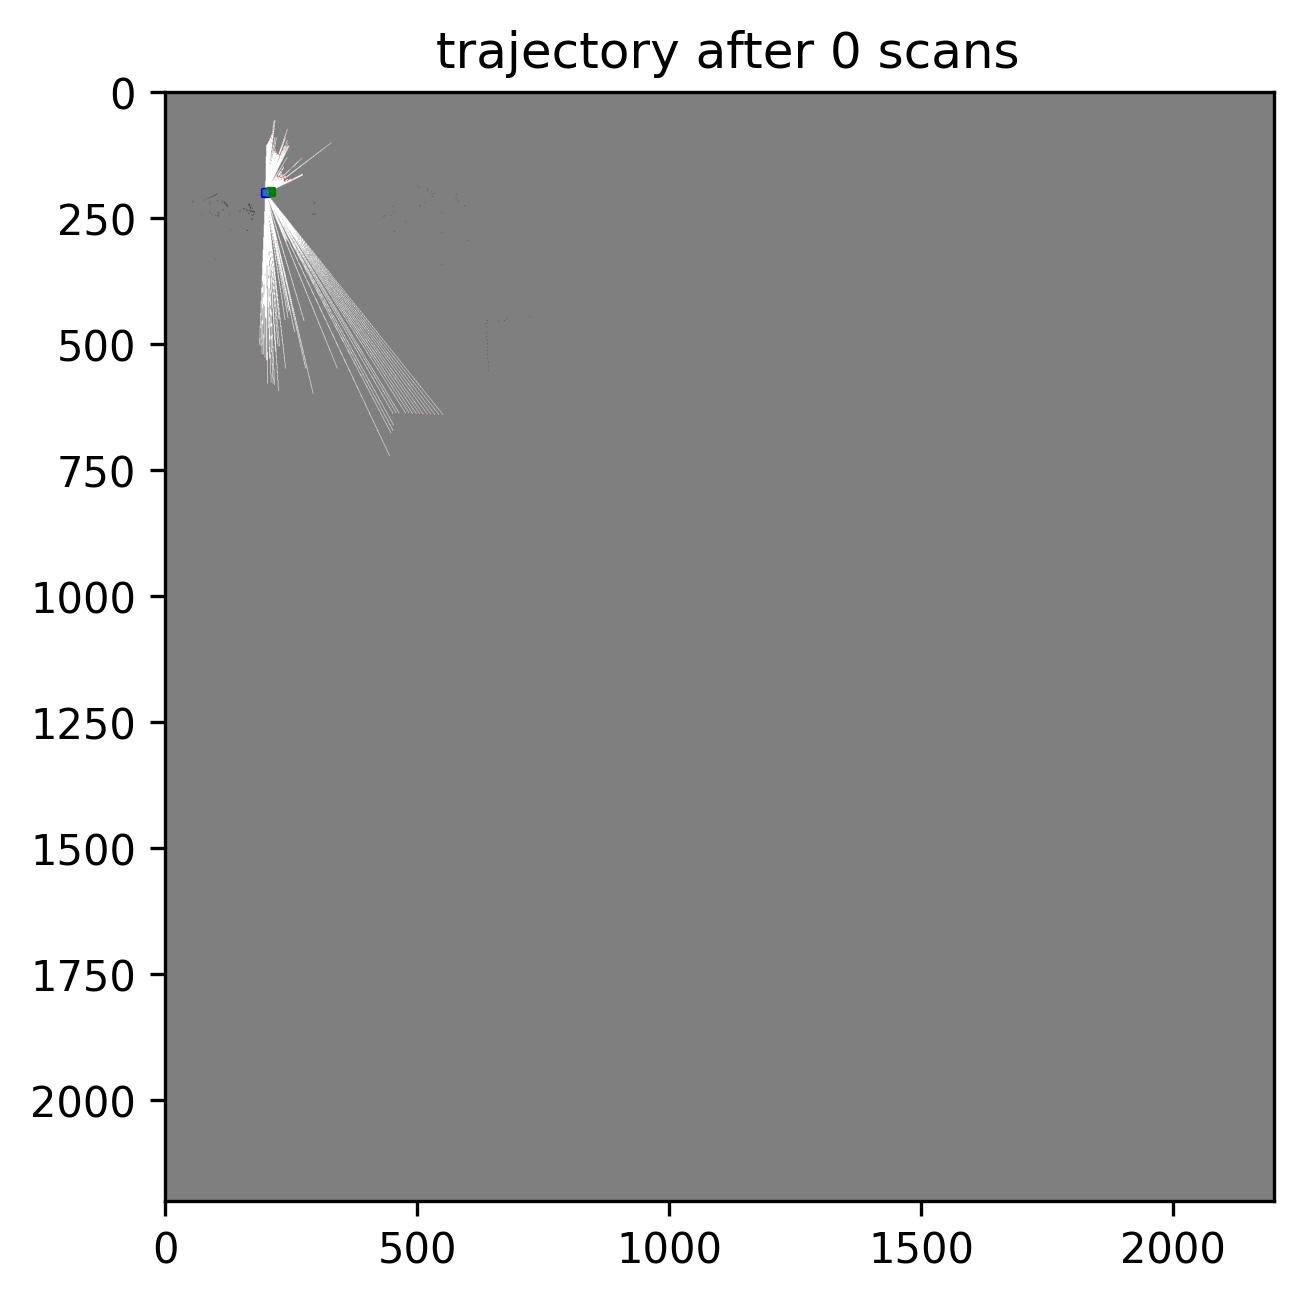
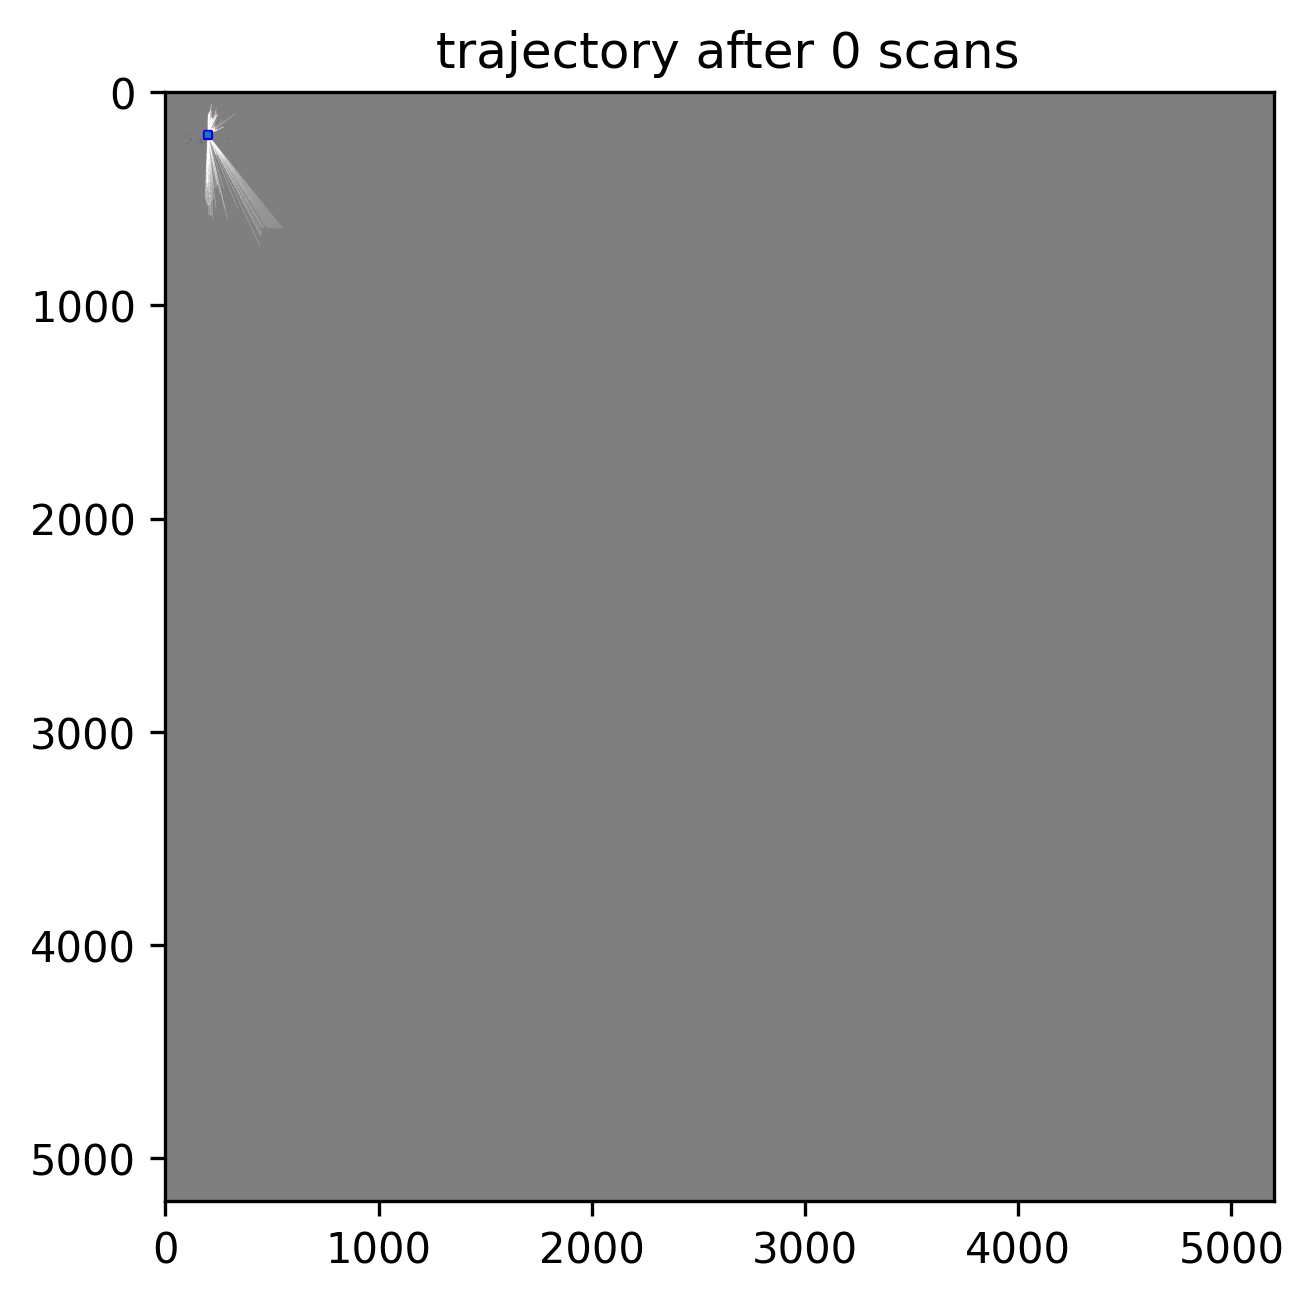
update map within 1000 pixels neighbor

diff --git a/ECE-276A/Project-2/code/SLAM.py b/ECE-276A/Project-2/code/SLAM.py
@@ -11,6 +11,7 @@ import transformation
 import particle
 import occupancy_grid_map
 from textureMapping import stereoModel
+from time import time
 
 class getData():
     def __init__(self):
@@ -144,7 +145,7 @@ class getData():
 
 
     def initializeSLAM(self, num_particles):
-        MAP = occupancy_grid_map.initializeMap(0.1,-20,-20,200,200) # res, xmin, ymin, xmax, ymax
+        MAP = occupancy_grid_map.initializeMap(0.1,-20,-20,100,100) # res, xmin, ymin, xmax, ymax
         particles = particle.initializeParticles(num_particles)
         TRAJECTORY_w = {}
         TRAJECTORY_w['particle'] = []
@@ -165,7 +166,7 @@ if __name__ == '__main__':
     s = stereoModel()
     path_l = 'stereo_left/1544582648735466220.png'
     path_r = 'stereo_right/1544582648735466220.png'
-    pixel_uv, pixel_xyz_w = s.imageToWorld(path_l, path_r, 300)
+    pixel_uv, pixel_xyz_w = s.imageToWorld(path_l, path_r, 5)
     pixel_x_m, pixel_y_m = transformation.worldToMap(MAP, pixel_xyz_w[:,0], pixel_xyz_w[:,1])
     #plt.imshow(MAP['plot'])
     #plt.scatter(pixel_x_m, pixel_y_m)
@@ -175,6 +176,7 @@ if __name__ == '__main__':
     # relative distance of camera to vehicle are constant
     p_x_lcam, p_y_lcam = 1.64239, 0.247401 
     theta_cam = math.atan(p_y_lcam / p_x_lcam)
+    print(data.delta_pose[:,1000], data.delta_pose[:,200])
 
     for i in range(time_all):#len(data.lidar_data)):
         lidar_range = data.lidar_data[i, :]
@@ -188,7 +190,7 @@ if __name__ == '__main__':
 
         # Record trajectories
         delta_pose = data.delta_pose[:,i]
-
+        
         if (i == 0):
             pose = particles['poses'][np.argmax(particles['weights']), :]
             
@@ -222,8 +224,15 @@ if __name__ == '__main__':
             plt.savefig('map.png')
 
         # particle filter steps. Resample is called in the updateParticles() function
+        
         particle.predictParticles(particles, delta_pose[0], delta_pose[1], delta_pose[2], pose[0], pose[1], pose[2])
-        particle.updateParticles(particles, MAP, x_l, y_l)
+        
+        
+        if i == 0:
+            particle.updateParticles(particles, MAP, x_l, y_l, TRAJECTORY_m, True)
+        else:
+            particle.updateParticles(particles, MAP, x_l, y_l, TRAJECTORY_m)
+        
 
         print("Timestep:" + str(i+1) + "/" + str(time_all))
         # update trajectories again
@@ -240,14 +249,20 @@ if __name__ == '__main__':
         TRAJECTORY_m['leftcamera'].append(np.array([x_cam_m, y_cam_m, pose[2]]))
         
         # update map based on particle's view of lidar scan
+        #start_time = time()
         occupancy_grid_map.updateMap(MAP, x_w, y_w, pose[0], pose[1])
-        print(len(TRAJECTORY_m['particle'][0]))
+        #print(time()-start_time)
 
-        if (i % 50 == 0 or i == len(lidar_range) - 1):
+        if (i % 400 == 399): #or i == len(lidar_range) - 1):
+            map_plot = MAP['plot']
             plt.imshow(MAP['plot'])
-            plt.scatter(np.asarray(TRAJECTORY_m['particle'])[:].T[0], np.asarray(TRAJECTORY_m['particle'])[:].T[1], c='r', marker="s", s=2)
-            plt.scatter(np.asarray(TRAJECTORY_m['odometry'])[:].T[0], np.asarray(TRAJECTORY_m['odometry'])[:].T[1], c='b', marker="s", s=2)
-            plt.scatter(np.asarray(TRAJECTORY_m['leftcamera'])[:].T[0], np.asarray(TRAJECTORY_m['leftcamera'])[:].T[1], c='g', marker="s", s=2)
+            particle_x = np.asarray(TRAJECTORY_m['particle'])[:].T[0]
+            particle_y = np.asarray(TRAJECTORY_m['particle'])[:].T[1]
+            odo_x = np.asarray(TRAJECTORY_m['odometry'])[:].T[0]
+            odo_y = np.asarray(TRAJECTORY_m['odometry'])[:].T[1]
+            plt.scatter(particle_x, particle_y, c='r', marker="s", s=2)
+            plt.scatter(odo_x, odo_y, c='b', marker="s", s=2)
+            #plt.scatter(np.asarray(TRAJECTORY_m['leftcamera'])[:].T[0], np.asarray(TRAJECTORY_m['leftcamera'])[:].T[1], c='g', marker="s", s=2)
             plt.title(" trajectory after " + str(i) + " scans")
             filename = "results/trajectory/s" + str(i) + "p" + str(5) + ".png"
             plt.savefig(filename, dpi=300, bbox_inches='tight')                
@@ -255,7 +270,7 @@ if __name__ == '__main__':
             plt.imshow(MAP['map'])
             plt.title(" log-odds after " + str(i) + " scans")
             filename = "results/log-odds/lo-d" + "s" + str(i) + "p" + str(5) + ".png"
-            plt.savefig(filename, dpi=300, bbox_inches='tight')                
+            plt.savefig(filename, dpi=300, bbox_inches='tight')        
             
             #print("occupancy grid and log-odds at scan =", i + 1, "of", len(lidar_range))
             #print("current particle position:", TRAJECTORY_m['particle'][i].T[0][0], ",", TRAJECTORY_m['particle'][i].T[1][0])

diff --git a/ECE-276A/Project-2/code/occupancy_grid_map.py b/ECE-276A/Project-2/code/occupancy_grid_map.py
@@ -6,12 +6,11 @@ import matplotlib.pyplot as plt
 from pr2_utils import read_data_from_csv, bresenham2D
 import math
 import transformation
+from time import time
 
-def initializeMap(res, xmin, ymin, xmax, ymax, memory = None, trust = None, optimism = None, occupied_thresh = None, free_thresh = None, confidence_limit = None):
-    if memory == None:
-        memory = 1 # set to value between 0 and 1 if memory is imperfect
+def initializeMap(res, xmin, ymin, xmax, ymax, trust = None, optimism = None, occupied_thresh = None, free_thresh = None, confidence_limit = None):
     if trust == None:
-        trust = 0.8
+        trust = 0.95
     if optimism == None:
         optimism = 1#0.5
     if occupied_thresh == None:
@@ -19,7 +18,7 @@ def initializeMap(res, xmin, ymin, xmax, ymax, memory = None, trust = None, opti
     if free_thresh == None:
         free_thresh = 0.5 # 0.5 # 0.25
     if confidence_limit == None:
-        confidence_limit = 40 * memory
+        confidence_limit = 40
     
     MAP = {}
     MAP['res']   = res      # meters per grid
@@ -32,7 +31,6 @@ def initializeMap(res, xmin, ymin, xmax, ymax, memory = None, trust = None, opti
     MAP['map'] = np.zeros((MAP['sizex'], MAP['sizey']), dtype=np.float64) # DATA TYPE: char or int8
     
     # Related to log-odds 
-    MAP['memory'] = memory
     MAP['occupied'] = np.log(trust / (1 - trust))
     MAP['free'] = optimism * np.log((1 - trust) / trust) # Try to be optimistic about exploration, so weight free space
     MAP['confidence_limit'] = confidence_limit
@@ -59,20 +57,24 @@ def updateMap(MAP, x_w, y_w, x_cur, y_cur):
     x_cur_m, y_cur_m = transformation.worldToMap(MAP, x_cur, y_cur)
     
     # check whether it's out of range of image size
+    start_time = time()
     indvalid = np.logical_and(np.logical_and(np.logical_and((x_m > 1), (y_m > 1)), (x_m < MAP['sizex'])),(y_m < MAP['sizey']))
     x_m = x_m[indvalid]
     y_m = y_m[indvalid]
-
-    MAP['map'] = MAP['map'] * MAP['memory']
 
     # occupied in map
     MAP['map'][x_m,y_m] += MAP['occupied']#- MAP['free'] # we're going to add the MAP['free'] back in a second
     
     # initialize a mask where we will label the free cells
-    free_grid = np.zeros(MAP['map'].shape).astype(np.int8) 
+    
+    #shape = MAP['map'].shape
+    #free_grid = np.zeros(shape).astype(np.int8) 
+    
     x_m = np.append(x_m, x_cur_m) # Must consider robot's current cell
     y_m = np.append(y_m, y_cur_m)
     contours = np.vstack((x_m, y_m)) # SWITCH
+    
+    
 
     # find the cells that are free, and update the map
     #cv2.drawContours(free_grid, [contours.T], -1, MAP['free'], -1) 
@@ -81,22 +83,24 @@ def updateMap(MAP, x_w, y_w, x_cur, y_cur):
         frees = bresenham2D(x_cur_m, y_cur_m, hit_x_m, hit_y_m)
 
         # prevent out-of-range error. make sure all lidar paths are within map
-        indvalid = np.logical_and(np.logical_and(np.logical_and((frees[0,:] > 1), (frees[1,:] > 1)),
-         (frees[0,:] < MAP['sizex'])),(frees[1,:] < MAP['sizey'])) 
+        indvalid = np.logical_and(np.logical_and(np.logical_and((frees[0,:] > 1), (frees[1,:] > 1)),(frees[0,:] < MAP['sizex'])),(frees[1,:] < MAP['sizey'])) 
         frees = frees[:,indvalid]
 
         MAP['map'][frees[1,:].astype(int),frees[0,:].astype(int)] += MAP['free']
+    
     
     # prevent overconfidence
     MAP['map'][MAP['map'] > MAP['confidence_limit']] = MAP['confidence_limit']
     MAP['map'][MAP['map'] < -MAP['confidence_limit']] = -MAP['confidence_limit']
     
     # update plot
-    occupied_grid = MAP['map'] > MAP['occupied_thresh']
-    free_grid = MAP['map'] < MAP['free_thresh']
+    occupied_grid = MAP['map'] > 0#MAP['occupied_thresh']
+    free_grid = MAP['map'] < 0#MAP['free_thresh']
+    
     
     MAP['plot'][occupied_grid] = [0, 0, 0]
     MAP['plot'][free_grid] = [255, 255, 255] 
+    print(time()-start_time)
     MAP['plot'][np.logical_and(np.logical_not(free_grid), np.logical_not(occupied_grid))] = [127, 127, 127]
     #plt.imshow(MAP['plot'])
     #plt.savefig('occupied_grid')
@@ -104,3 +108,4 @@ def updateMap(MAP, x_w, y_w, x_cur, y_cur):
     
     #x_m, y_m = transformation.worldToMap(MAP, x_w, y_w)
     MAP['plot'][y_m, x_m] = [255, 0, 0]    # plot latest lidar scan hits
+    

diff --git a/ECE-276A/Project-2/code/particle.py b/ECE-276A/Project-2/code/particle.py
@@ -1,11 +1,9 @@
 import numpy as np
 import cv2
-import os
-import pandas as pd
-import matplotlib.pyplot as plt
 from pr2_utils import read_data_from_csv
 from scipy import special
 import transformation
+from time import time
 
 def initializeParticles(num = None, n_thresh = None, noise_cov = None):
     if num == None:
@@ -29,8 +27,7 @@ def initializeParticles(num = None, n_thresh = None, noise_cov = None):
     return PARTICLES
 
 def predictParticles(PARTICLES, d_x, d_y, d_yaw, x_prev, y_prev, yaw_prev):
-    
-    noise_cov =  np.matmul(PARTICLES['noise_cov'], np.abs(np.array([[d_x, 0, 0], [0, d_y, 0], [0, 0, d_yaw]]))) 
+    noise_cov =  np.matmul(PARTICLES['noise_cov'], np.abs(np.array([[0.015,0,0],[0,0.015,0],[0,0,0.5]])))#[[d_x, 0, 0], [0, d_y, 0], [0, 0, d_yaw]]))) 
         
     # create hypothesis (particles) poses
     noise = np.random.multivariate_normal([0, 0, 0], noise_cov, PARTICLES['num'])
@@ -40,7 +37,7 @@ def predictParticles(PARTICLES, d_x, d_y, d_yaw, x_prev, y_prev, yaw_prev):
     PARTICLES['poses'] += np.array([[d_x, d_y, d_yaw]])
     return
 
-def updateParticles(PARTICLES, MAP, x_l, y_l):
+def updateParticles(PARTICLES, MAP, x_l, y_l, TRAJECTORY_m, init=False):
     
     n_eff = 1 / np.sum(np.square(PARTICLES['weights']))
     
@@ -49,17 +46,34 @@ def updateParticles(PARTICLES, MAP, x_l, y_l):
         resampleParticles(PARTICLES)
     
     correlations = np.zeros(PARTICLES['num'])
+
+    #start_time = time()
+
+    if init == False:
+        cur_x_m, cur_y_m = int(TRAJECTORY_m['particle'][-1][0]), int(TRAJECTORY_m['particle'][-1][0])
+    else:
+        cur_x_m, cur_y_m = 200-1, 200-1
+
+    plot = MAP['plot']
+    plot = plot[cur_x_m-150+1:cur_x_m+800+1,cur_y_m-150+1:cur_y_m+800+1,:]
+    _, plot = cv2.threshold(MAP['plot'], 127, 255, cv2.THRESH_BINARY) ####### slow
+
+    map_shape = plot.shape
+    particle_plot = np.zeros(map_shape)
     
-    _, plot = cv2.threshold(MAP['plot'], 127, 255, cv2.THRESH_BINARY)
     
     for i in range(PARTICLES['num']):
         x_w, y_w, _ = transformation.lidarToWorld(x_l, y_l, PARTICLES['poses'][i][0], PARTICLES['poses'][i][1], PARTICLES['poses'][i][2])        
         x_m, y_m = transformation.worldToMap(MAP, x_w, y_w)
-        
-        particle_plot = np.zeros(MAP['plot'].shape)
-        particle_plot[y_m, x_m] = [0, 1, 0]
 
-        correlations[i] = np.sum(np.logical_and(plot, particle_plot)) # switched x and y
+        indvalid = np.logical_and(np.logical_and(np.logical_and((x_m > 1), (y_m > 1)), (x_m < MAP['sizex'])),(y_m < MAP['sizey']))
+        x_m, y_m = x_m[indvalid], y_m[indvalid]
+        
+        particle_plot[y_m-cur_y_m+150, x_m-cur_x_m+150] = [0,1,0]
+        correlations[i] = np.sum(np.logical_and(plot, particle_plot)) # switched x and y # too slow
+        particle_plot[y_m-cur_y_m+150, x_m-cur_x_m+150] = [0,0,0]
+        #print('update time:' + str(passed_time))
+    #print(time()-start_time)
     
     weights = special.softmax(correlations - np.max(correlations)) # np.multiply(PARTICLES['weights'], scipy.special.softmax(correlations)) # multiply or add or replace?
 
